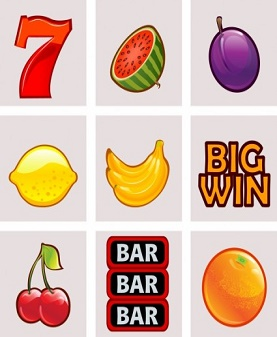
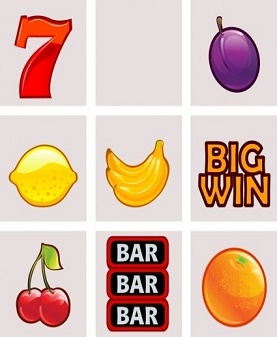
add spin button and change reels after pressed. add shell functions for the rest of the butttons

Changed region(s): [[0.3755, 0.0593, 0.6065, 0.2967]]

diff --git a/slotmachine/js/slotmachine.js b/slotmachine/js/slotmachine.js
@@ -1,44 +1,54 @@
 /// <reference path="createjs-2013.12.12.min.js" />
 
 var stage;
+var spinResult = ["seven", "seven", "seven"];
 
-var REEL = { width: 86, height: 107 };
+var REEL = { WIDTH: 86, HEIGHT: 107 };
 
 var REEL1 = { X: 56, Y: 132 };
 var REEL2 = { X: 161, Y: 132 };
 var REEL3 = { X: 266, Y: 132 };
 
 var SEVEN = { X: 0, Y: 0 };
+var BLANK = { X: 95, Y: 0 };
 var GRAPE = { X: 190, Y: 0 };
 
 var LEMON = { X: 0, Y: 115 };
-var BANANAS = { X: 95, Y: 115 };
+var BANANA = { X: 95, Y: 115 };
 
-var CHERRIES = { X: 0, Y: 230 };
-var BARS = { X: 95, Y: 230 };
+var CHERRY = { X: 0, Y: 230 };
+var BAR = { X: 95, Y: 230 };
 var ORANGE = { X: 190, Y: 230 };
 
 var reelData = {
     images: ['img/reel_icons.jpg'],
     frames: [
-                [SEVEN.X, SEVEN.Y, REEL.width, REEL.height, 0, 0, 0],
-                [GRAPE.X, GRAPE.Y, REEL.width, REEL.height, 0, 0, 0],
-                [LEMON.X, LEMON.Y, REEL.width, REEL.height, 0, 0, 0],
-                [BANANAS.X, BANANAS.Y, REEL.width, REEL.height, 0, 0, 0],
-                [CHERRIES.X, CHERRIES.Y, REEL.width, REEL.height, 0, 0, 0],
-                [ORANGE.X, ORANGE.Y, REEL.width, REEL.height, 0, 0, 0],
-                [BARS.X, BARS.Y, REEL.width, REEL.height, 0, 0, 0]
+                [SEVEN.X, SEVEN.Y, REEL.WIDTH, REEL.HEIGHT, 0, 0, 0],
+                [GRAPE.X, GRAPE.Y, REEL.WIDTH, REEL.HEIGHT, 0, 0, 0],
+                [LEMON.X, LEMON.Y, REEL.WIDTH, REEL.HEIGHT, 0, 0, 0],
+                [BANANA.X, BANANA.Y, REEL.WIDTH, REEL.HEIGHT, 0, 0, 0],
+                [CHERRY.X, CHERRY.Y, REEL.WIDTH, REEL.HEIGHT, 0, 0, 0],
+                [ORANGE.X, ORANGE.Y, REEL.WIDTH, REEL.HEIGHT, 0, 0, 0],
+                [BAR.X, BAR.Y, REEL.WIDTH, REEL.HEIGHT, 0, 0, 0],
+                [BLANK.X, BLANK.Y, REEL.WIDTH, REEL.HEIGHT, 0, 0, 0] //change to blank
     ],
     animations: {
         seven: 0,
         grape: 1,
         lemon: 2,
-        bananas: 3,
-        cherries: 4,
+        banana: 3,
+        cherry: 4,
         orange: 5,
-        bars: 6
+        bar: 6,
+        blank: 7
     }
 };
+
+var SPIN = { X: 320, Y: 340 };
+var RESET = { X: 34, Y: 343 }; 
+var PAY_TABLE = { X: 92, Y: 343 };
+var BET_MINUS = { X: 150, Y: 343 };
+var BET_ADD = { X: 208, Y: 343 };
 
 function init() {
     stage = new createjs.Stage(document.getElementById('slotmachine'));
@@ -49,23 +59,30 @@ function init() {
 
 function handleTick(e) {
     //update method
-    draw();
+    updateReels();
     stage.update();
 }
 
 function start() {
-
+    updateSlotmachine();
+    updateSpinButton();
+    updateResetButton();
+    updatePayButton();
+    updateBetMinusButton();
+    updateBetAddButton();
 }
 
-function drawSlotmachine() {
-    var reelSheet = new createjs.SpriteSheet(reelData);
-    var reel1Result = new createjs.Sprite(reelSheet, 0);
-    var reel2Result = new createjs.Sprite(reelSheet, 3);
-    var reel3Result = new createjs.Sprite(reelSheet, "bars");
-
-    var image = 'img/slotmachine.png';
-    var slotmachine = new createjs.Bitmap(image);
+function updateSlotmachine() {
+    var slotImage = 'img/slotmachine.png';
+    var slotmachine = new createjs.Bitmap(slotImage);
     stage.addChild(slotmachine);
+}
+
+function updateReels() {
+    var reelSheet = new createjs.SpriteSheet(reelData);
+    var reel1Result = new createjs.Sprite(reelSheet, spinResult[0]);
+    var reel2Result = new createjs.Sprite(reelSheet, spinResult[1]);
+    var reel3Result = new createjs.Sprite(reelSheet, spinResult[2]);
 
     reel1Result.x = REEL1.X;
     reel1Result.y = REEL1.Y;
@@ -76,7 +93,149 @@ function drawSlotmachine() {
     stage.addChild(reel1Result, reel2Result, reel3Result);
 }
 
-function draw() {
-    drawSlotmachine();
+function updateSpinButton() {
+    var spinImage = 'img/spin.png';
+    var spinButton = new createjs.Bitmap(spinImage);
+    spinButton.x = SPIN.X;
+    spinButton.y = SPIN.Y;
+    spinButton.addEventListener("click", handleClickSpin);
+    function handleClickSpin(event) {
+        spinResult = Reels();
+        console.log(spinResult[0] + ' ' + spinResult[1] + ' ' + spinResult[2]);
+    }
+
+    stage.addChild(spinButton);
 }
 
+function updateResetButton() {
+    var resetImage = 'img/reset.png';
+    var resetButton = new createjs.Bitmap(resetImage);
+    resetButton.x = RESET.X;
+    resetButton.y = RESET.Y;
+    resetButton.addEventListener("click", handleClickReset);
+    function handleClickReset(event) {
+        console.log('reset');
+    }
+
+    stage.addChild(resetButton);
+}
+
+function updatePayButton() {
+    var payImage = 'img/payTable.png';
+    var payButton = new createjs.Bitmap(payImage);
+    payButton.x = PAY_TABLE.X;
+    payButton.y = PAY_TABLE.Y;
+    payButton.addEventListener("click", handleClickPay);
+    function handleClickPay(event) {
+        console.log('pay');
+    }
+
+    stage.addChild(payButton);
+}
+
+function updateBetMinusButton() {
+    var betMinusImage = 'img/betMinus.png';
+    var betMinusButton = new createjs.Bitmap(betMinusImage);
+    betMinusButton.x = BET_MINUS.X;
+    betMinusButton.y = BET_MINUS.Y;
+    betMinusButton.addEventListener("click", handleClickBetMinus);
+    function handleClickBetMinus(event) {
+        console.log('betMinus');
+    }
+
+    stage.addChild(betMinusButton);
+}
+
+function updateBetAddButton() {
+    var betAddImage = 'img/betAdd.png';
+    var betAddButton = new createjs.Bitmap(betAddImage);
+    betAddButton.x = BET_ADD.X;
+    betAddButton.y = BET_ADD.Y;
+    betAddButton.addEventListener("click", handleClickBetAdd);
+    function handleClickBetAdd(event) {
+        console.log('betAdd');
+    }
+
+    stage.addChild(betAddButton);
+}
+
+
+
+//functions for slotmachine
+var grapes = 0;
+var bananas = 0;
+var oranges = 0;
+var cherries = 0;
+var bars = 0;
+var lemons = 0;
+var sevens = 0;
+var blanks = 0;
+/* When this function is called it determines the betLine results. */
+//e.g. Bar - Orange - Banana
+
+
+function Reels() {
+    var betLine = [" ", " ", " "];
+    var outCome = [0, 0, 0];
+
+    for (var spin = 0; spin < 3; spin++) {
+        outCome[spin] = Math.floor((Math.random() * 65) + 1);
+        switch (outCome[spin]) {
+            case checkRange(outCome[spin], 1, 27):  // 41.5% probability
+                betLine[spin] = "blank";
+                blanks++;
+                break;
+            case checkRange(outCome[spin], 28, 37): // 15.4% probability
+                betLine[spin] = "grape";
+                grapes++;
+                break;
+            case checkRange(outCome[spin], 38, 46): // 13.8% probability
+                betLine[spin] = "banana";
+                bananas++;
+                break;
+            case checkRange(outCome[spin], 47, 54): // 12.3% probability
+                betLine[spin] = "orange";
+                oranges++;
+                break;
+            case checkRange(outCome[spin], 55, 59): //  7.7% probability
+                betLine[spin] = "cherry";
+                cherries++;
+                break;
+            case checkRange(outCome[spin], 60, 62): //  4.6% probability
+                betLine[spin] = "bar";
+                bars++;
+                break;
+            case checkRange(outCome[spin], 63, 64): //  3.1% probability
+                betLine[spin] = "lemon";
+                lemons++;
+                break;
+            case checkRange(outCome[spin], 65, 65): //  1.5% probability
+                betLine[spin] = "seven";
+                sevens++;
+                break;
+        }
+    }
+    return betLine;
+}
+
+/* Utility function to reset all fruit tallies */
+function resetFruitTally() {
+    grapes = 0;
+    bananas = 0;
+    oranges = 0;
+    cherries = 0;
+    bars = 0;
+    bells = 0;
+    sevens = 0;
+    blanks = 0;
+}
+
+/* Utility function to check if a value falls within a range of bounds */
+function checkRange(value, lowerBounds, upperBounds) {
+    if (value >= lowerBounds && value <= upperBounds) {
+        return value;
+    }
+    else {
+        return !value;
+    }
+}

diff --git a/slotmachine/js/main.js b/slotmachine/js/main.js
@@ -93,51 +93,6 @@ function checkRange(value, lowerBounds, upperBounds) {
     }
 }
 
-/* When this function is called it determines the betLine results.
-e.g. Bar - Orange - Banana */
-function Reels() {
-    var betLine = [" ", " ", " "];
-    var outCome = [0, 0, 0];
-
-    for (var spin = 0; spin < 3; spin++) {
-        outCome[spin] = Math.floor((Math.random() * 65) + 1);
-        switch (outCome[spin]) {
-            case checkRange(outCome[spin], 1, 27):  // 41.5% probability
-                betLine[spin] = "blank";
-                blanks++;
-                break;
-            case checkRange(outCome[spin], 28, 37): // 15.4% probability
-                betLine[spin] = "Grapes";
-                grapes++;
-                break;
-            case checkRange(outCome[spin], 38, 46): // 13.8% probability
-                betLine[spin] = "Banana";
-                bananas++;
-                break;
-            case checkRange(outCome[spin], 47, 54): // 12.3% probability
-                betLine[spin] = "Orange";
-                oranges++;
-                break;
-            case checkRange(outCome[spin], 55, 59): //  7.7% probability
-                betLine[spin] = "Cherry";
-                cherries++;
-                break;
-            case checkRange(outCome[spin], 60, 62): //  4.6% probability
-                betLine[spin] = "Bar";
-                bars++;
-                break;
-            case checkRange(outCome[spin], 63, 64): //  3.1% probability
-                betLine[spin] = "Bell";
-                bells++;
-                break;
-            case checkRange(outCome[spin], 65, 65): //  1.5% probability
-                betLine[spin] = "Seven";
-                sevens++;
-                break;
-        }
-    }
-    return betLine;
-}
 
 /* This function calculates the player's winnings, if any */
 function determineWinnings()
@@ -204,10 +159,10 @@ function determineWinnings()
 }
 
 /* When the player clicks the spin button the game kicks off */
-$("#spinButton").click(function () {
+function pressSpin() {
     playerBet = $("div#betEntry>input").val();
 
-    if (playerMoney == 0)
+/*    if (playerMoney == 0)
     {
         if (confirm("You ran out of Money! \nDo you want to play again?")) {
             resetAll();
@@ -232,6 +187,8 @@ $("#spinButton").click(function () {
         alert("Please enter a valid bet amount");
     }
 
+    */
+    spinResult = Reels();
 
-});
+}
 

diff --git a/slotmachine/index.html b/slotmachine/index.html
@@ -13,7 +13,6 @@
     
     <!-- JavaScript Section -->
     <script src="js/createjs-2013.12.12.min.js"></script>
-    <script src="js/jquery.js"></script>
     <script src="js/slotmachine.js"></script>
     <script>init();</script>
 </body>
